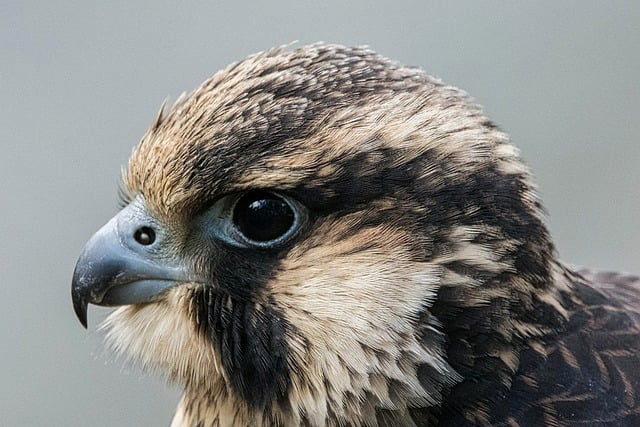
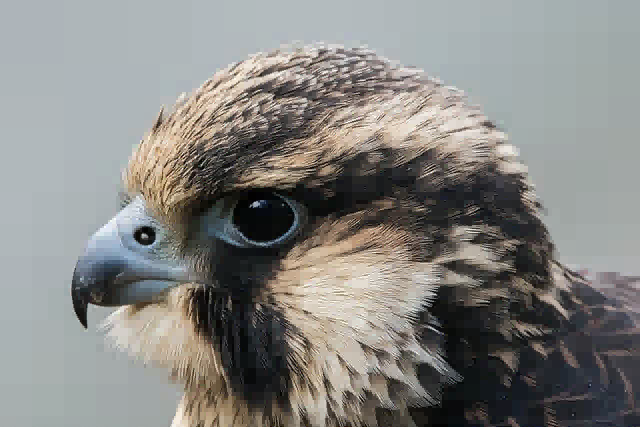
Compress theshold bug fix

diff --git a/test/ime/model/ImagePixelImplTest.java b/test/ime/model/ImagePixelImplTest.java
@@ -580,10 +580,14 @@ public class ImagePixelImplTest {
   @Test
   public void testCompress(){
     float[][][] testPixels = new float[][][]{{{5,5,5},{3,3,3}},{{2,2,2},{4,4,4}}};
+    float[][][] testPixels2 = new float[][][]{{{0,0,0},{0,0,0}},{{0,0,0},{0,0,0}}};
     ImagePixelImpl image = new ImagePixelImpl(testPixels,ImageType.RGB);
 
     Image compressed = image.compress(0);
     assertExpectedImage(testPixels, compressed);
+
+    Image fullycompressed = image.compress(100);
+    assertExpectedImage(testPixels2, fullycompressed);
 //    image.invHaar(new float[][][]{{{7.071f},{2.828f},{1.0f},{0f},{1.414f},{-1.414f},{0.707f},{-2.121f}}});
   }
 

diff --git a/src/ime/model/ImagePixelImpl.java b/src/ime/model/ImagePixelImpl.java
@@ -312,8 +312,8 @@ public class ImagePixelImpl implements Image {
         float threshold = nonZeroChannel.get(num - 1);
         for (int m = 0; m < transformed.length; m++) {
           for (int n = 0; n < transformed[0].length; n++) {
-            if (Math.abs(transformed[i][m][n]) < threshold) {
-              transformed[i][m][n] = 0;
+            if (Math.abs(transformed[m][n][i]) <= threshold) {
+              transformed[m][n][i] = 0;
             }
           }
         }
